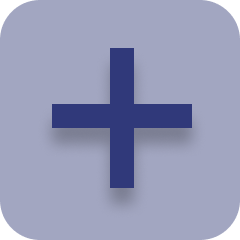
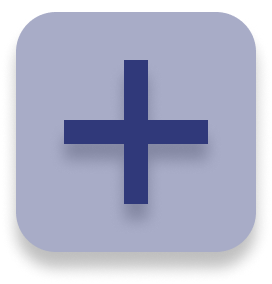
feat:team and league list

diff --git a/src/components/main/teamAndLeagueListBar.tsx b/src/components/main/teamAndLeagueListBar.tsx
@@ -1,5 +1,5 @@
 import React, { useCallback, useEffect, useState } from 'react';
-import { View, StyleSheet, ImageBackground, TouchableOpacity } from 'react-native';
+import { View, StyleSheet, ImageBackground, TouchableOpacity, Image } from 'react-native';
 import SearchBar from '../searchBar/serchBar';
 import { leagueDto, patchMainReqDto, teamDto } from '../../model/main.dto';
 import { useNavigation } from '@react-navigation/native';
@@ -15,9 +15,12 @@ interface ContentsProps {
     mode: 'm' | 'w',
     teamAndLeagueList: (teamDto | leagueDto)[] | null
   }
+interface emptyProps {
+  box: null
+}
 
 const TeamAndLeagueListBar: React.FC<ContentsProps>  = ({ mode, teamAndLeagueList }) => {
-  const [list, setList] = useState<(teamDto | leagueDto)[] | null>(null);
+  const [list, setList] = useState<(teamDto | leagueDto | emptyProps)[] | null>(null);
   const [patch, setPatch] = useState<patchMainReqDto>({
     method: 'PATCH',
     data: null,
@@ -33,7 +36,15 @@ const TeamAndLeagueListBar: React.FC<ContentsProps>  = ({ mode, teamAndLeagueLis
   }, [navigationLeague]); // navigationLeague를 의존성 배열에 추가
 
   useEffect(() => {
-    if (teamAndLeagueList) {
+    if (!teamAndLeagueList) {
+      setList(Array(4).fill({ box: null }));
+    } else if (teamAndLeagueList.length < 4) {
+      const filled = [
+        ...teamAndLeagueList,
+        ...Array.from({ length: 4 - teamAndLeagueList.length }, () => ({ box: null }))
+      ];
+      setList(filled);
+    } else {
       setList(teamAndLeagueList);
     }
   }, [teamAndLeagueList]);
@@ -50,10 +61,38 @@ const TeamAndLeagueListBar: React.FC<ContentsProps>  = ({ mode, teamAndLeagueLis
     });
     setList(updatedData);
   };
+
   const renderItem = useCallback(
     ({ item, drag, isActive, getIndex }: RenderItemParams<teamDto | leagueDto>) => {
       const index = getIndex();
-      return teamAndLeagueList ? (
+
+      if ('box' in item && item.box === null) {
+        return (
+          <View
+            key={item.index}
+            style={[
+              styles.box,
+              {
+                width: width * 0.125,
+                height: width * 0.2,
+                marginTop: height * 0.035,
+                marginRight: index !== list?.length - 1 ? width * 0.079 : width * 0.012,
+                marginLeft: width * 0.012,
+              },
+            ]}
+          >
+            <TouchableOpacity>
+          <Image
+            resizeMode="contain"
+            source={require('../../assets/main/botton.png')}
+            style={{ width: width * 0.16, height: width * 0.18 }}
+          />
+          </TouchableOpacity>
+          </View>
+        )
+      }
+
+      return (
         <ScaleDecorator>
           <View
             key={item.index}
@@ -63,7 +102,7 @@ const TeamAndLeagueListBar: React.FC<ContentsProps>  = ({ mode, teamAndLeagueLis
                 width: width * 0.125,
                 height: width * 0.2,
                 marginTop: height * 0.035,
-                marginRight: index !== teamAndLeagueList?.length - 1 ? width * 0.079 : width * 0.012,
+                marginRight: index !== list?.length - 1 ? width * 0.079 : width * 0.012,
                 marginLeft: width * 0.012,
               },
             ]}
@@ -84,9 +123,9 @@ const TeamAndLeagueListBar: React.FC<ContentsProps>  = ({ mode, teamAndLeagueLis
             </TouchableOpacity>
           </View>
         </ScaleDecorator>
-      ) : null;
+      );
     },
-    [navigateTeam, navigateLeague, teamAndLeagueList] // 필요한 의존성만 추가
+    [list, navigateTeam, navigateLeague] // 필요한 의존성만 추가
   );
   return (
     <View style={[styles.CalendarContainer, {width: width, height: mode === 'm' ? width * 0.42 : width}]}>
